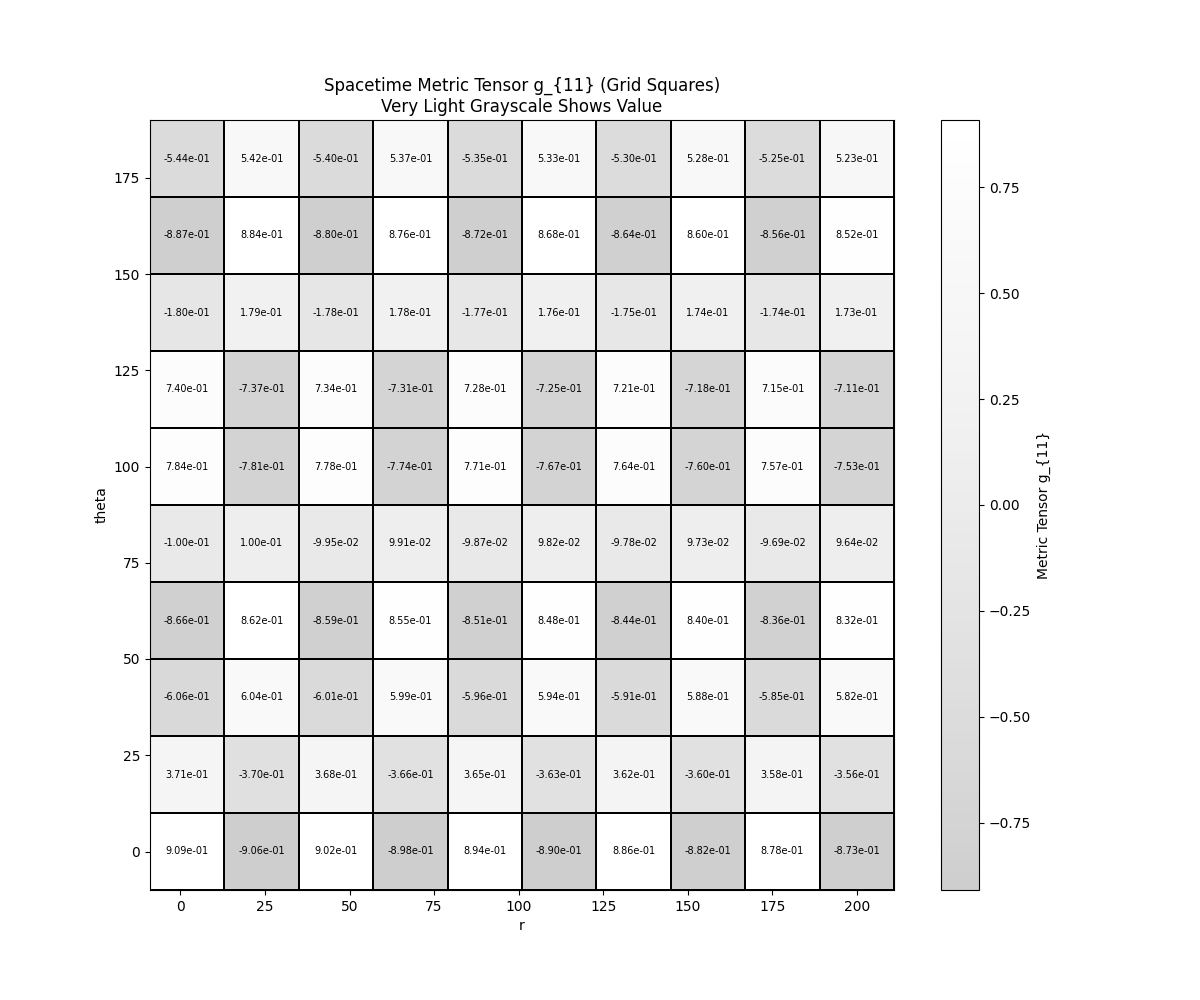
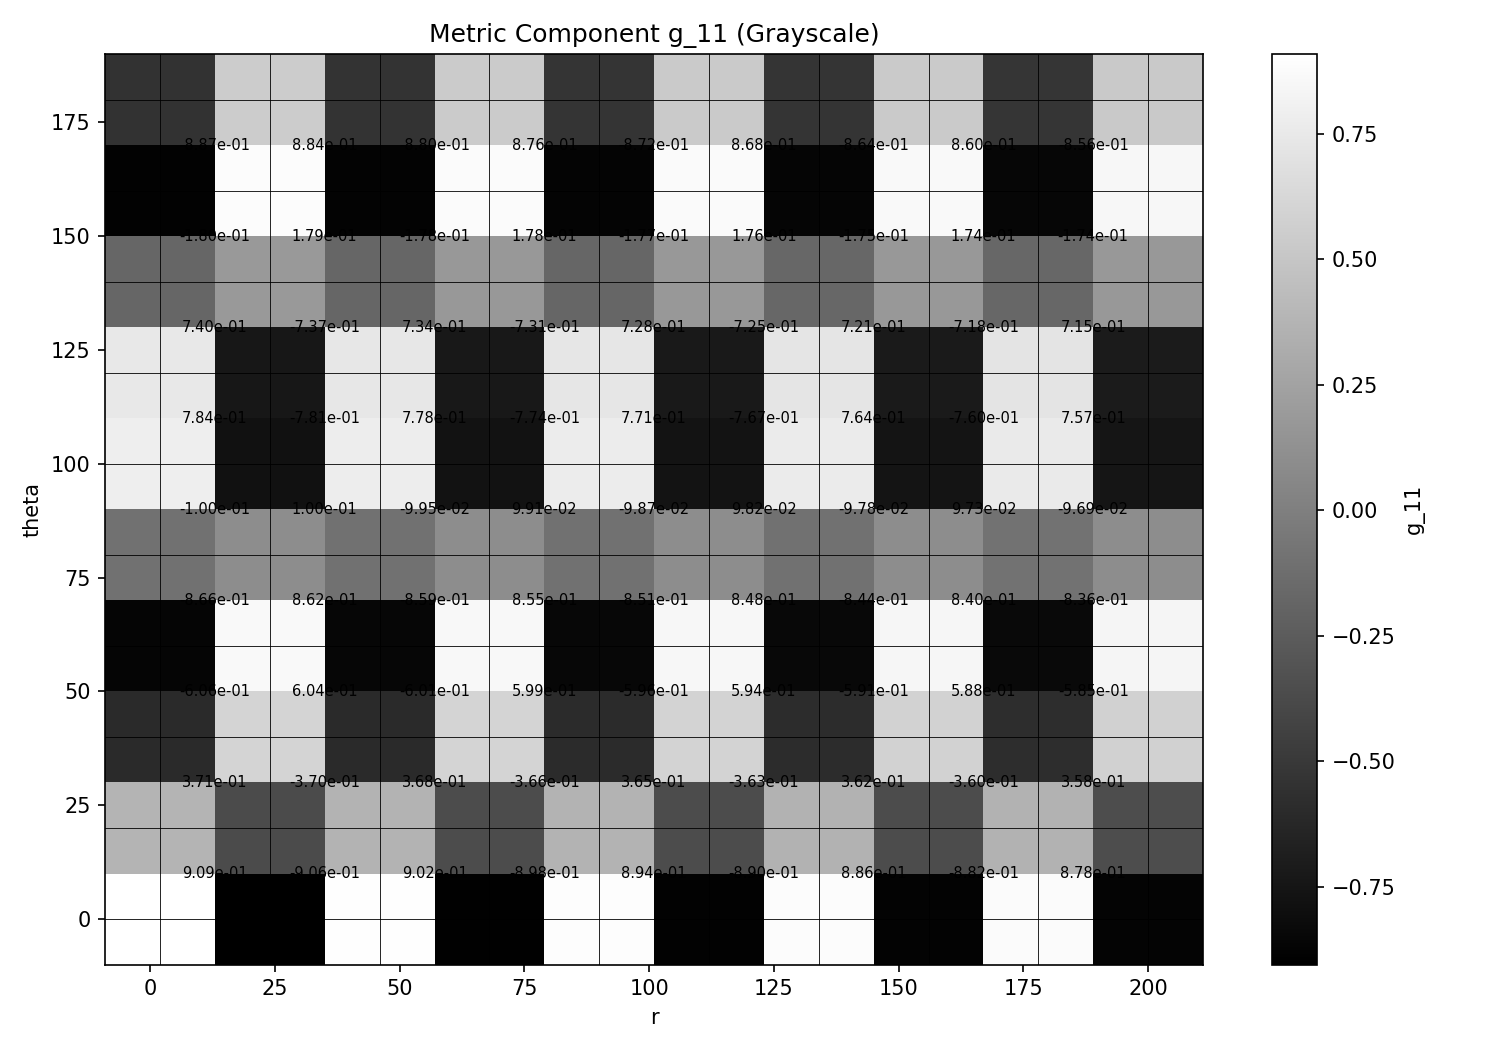
Change PNG File to Grayscale

diff --git a/spacetimeengine/src/spacetime.py b/spacetimeengine/src/spacetime.py
@@ -3061,12 +3061,11 @@ class SpaceTime:
                                 x_index=0, y_index=1, num_points=20,
                                 save_path=None, dpi=150, index_config="dd"):
         """
-        Plot selected metric component g_{mu nu} (or g^{mu nu} if index_config='uu')
-        over a grid of two coordinates.
+        Plot selected metric component in grayscale and save as metric_tensor_plot.png
+        (unless a custom save_path is provided).
         """
         if save_path is None:
-            fname = f"metric_{index_config}_{mu}{nu}_grid.png"
-            save_path = os.path.join(os.getcwd(), fname)
+            save_path = os.path.join(os.getcwd(), "metric_tensor_plot.png")
         os.makedirs(os.path.dirname(save_path), exist_ok=True)
 
         x_sym = self.coordinate_set[x_index]
@@ -3092,19 +3091,21 @@ class SpaceTime:
                 except Exception:
                     comp_grid[j, i] = np.nan
 
-        vmax = np.nanmax(np.abs(comp_grid))
-        if not np.isfinite(vmax) or vmax == 0:
+        vmax = np.nanmax(comp_grid)
+        vmin = np.nanmin(comp_grid)
+        if not np.isfinite(vmax) or not np.isfinite(vmin) or vmax == vmin:
             vmax = 1.0
-        vmin = -vmax
+            vmin = -1.0
 
         fig, ax = plt.subplots(figsize=(10, 7), dpi=dpi)
+        # Grayscale colormap
         mesh = ax.pcolormesh(x_vals, y_vals, comp_grid,
-                             cmap="seismic", shading="auto",
+                             cmap="gray", shading="auto",
                              vmin=vmin, vmax=vmax)
         lab = f"g_{mu}{nu}" if index_config == "dd" else f"g^{mu}{nu}"
         ax.set_xlabel(str(x_sym))
         ax.set_ylabel(str(y_sym))
-        ax.set_title(f"Metric Component {lab} (Grid Squares)")
+        ax.set_title(f"Metric Component {lab} (Grayscale)")
 
         for i, xv in enumerate(x_vals[:-1]):
             for j, yv in enumerate(y_vals[:-1]):
@@ -3116,9 +3117,9 @@ class SpaceTime:
                             ha="center", va="center", fontsize=7, color="black")
 
         for xv in x_vals:
-            ax.axvline(xv, color="black", linewidth=0.5)
+            ax.axvline(xv, color="black", linewidth=0.4)
         for yv in y_vals:
-            ax.axhline(yv, color="black", linewidth=0.5)
+            ax.axhline(yv, color="black", linewidth=0.4)
 
         cbar = fig.colorbar(mesh, ax=ax)
         cbar.set_label(lab)
